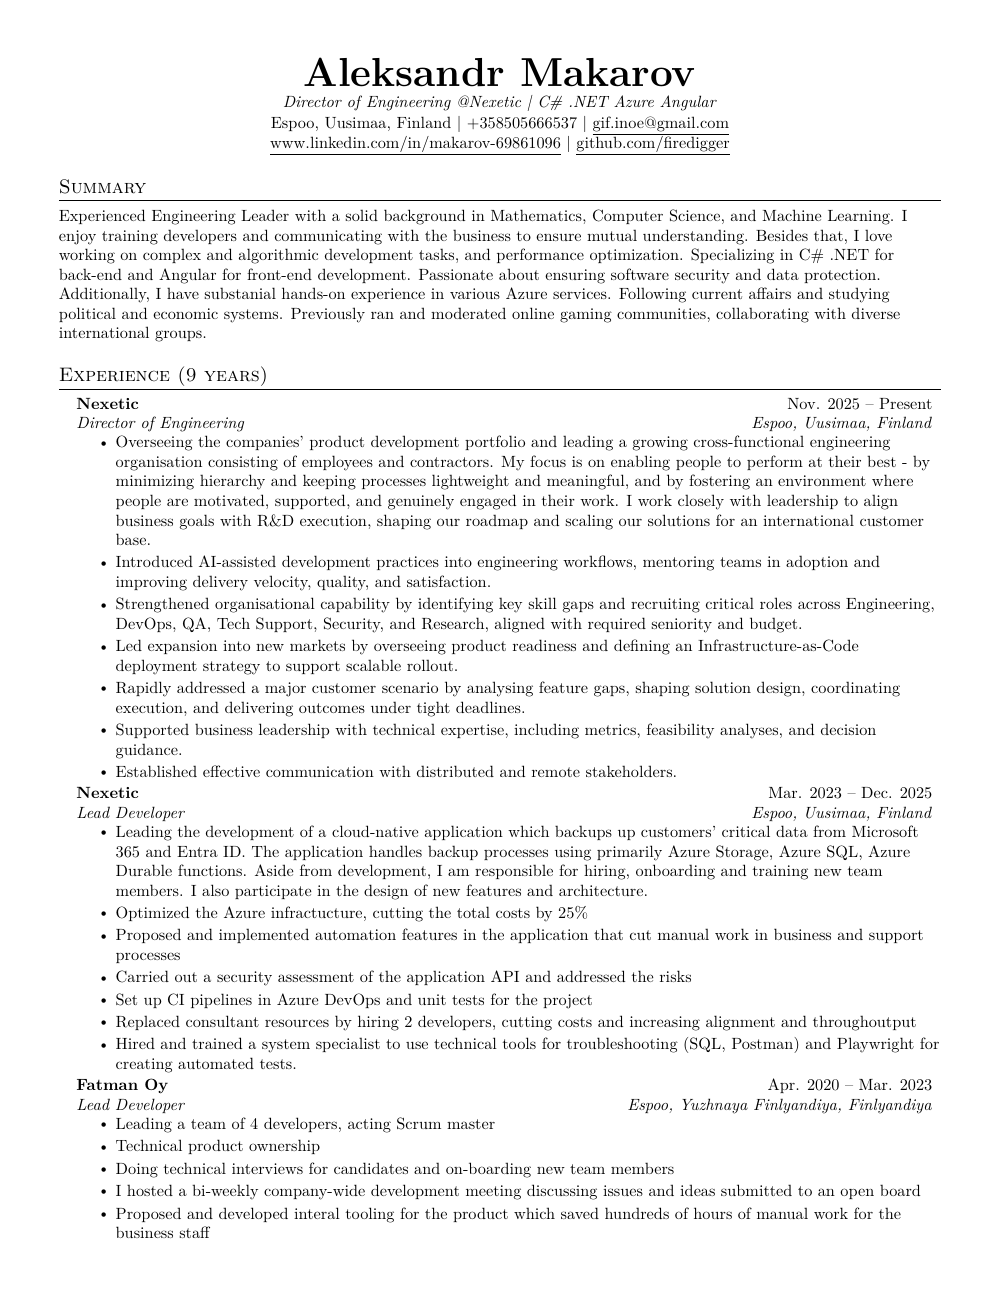
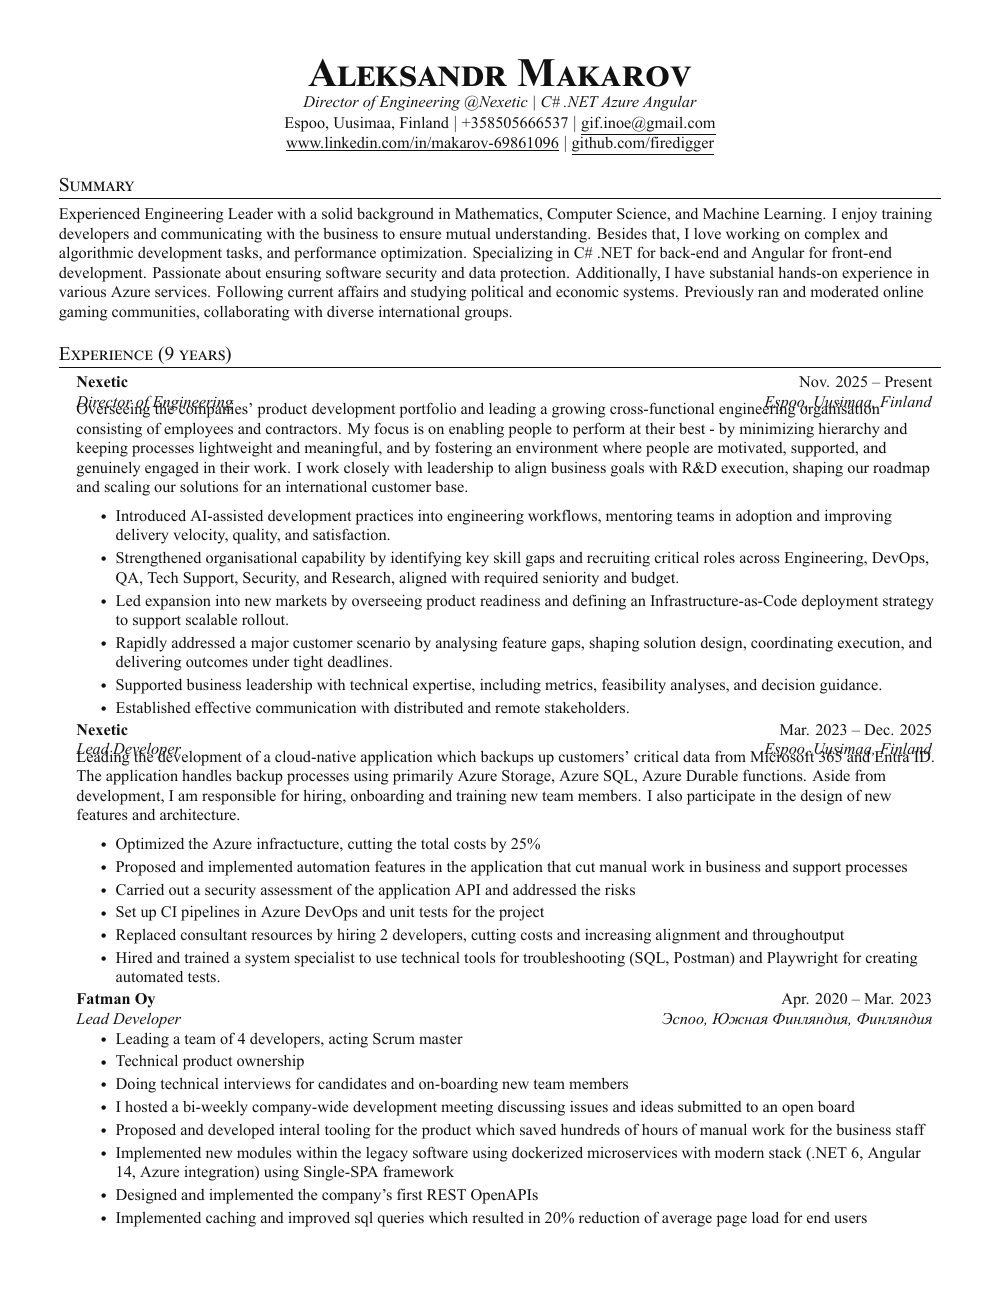
Add dark theme support and update readme

Changed region(s): [[0.062, 0.1236, 0.93, 0.9575], [0.279, 0.0309, 0.744, 0.1236]]

diff --git a/linkedin_resume_parser/latex.py b/linkedin_resume_parser/latex.py
@@ -33,6 +33,7 @@ def render_resume_latex(
     basic_mode: bool = False,
     latinize: bool = False,
     font_name: str | None = None,
+    theme: str = "light",
 ) -> None:
     resume = load_json(resume_path)
     global _LATINIZE
@@ -45,6 +46,7 @@ def render_resume_latex(
         basic_mode=basic_mode,
         unicode_enabled=unicode_enabled,
         font_name=font_name,
+        theme=theme,
     )
     output_path.write_text(rendered, encoding="utf-8")
 
@@ -55,6 +57,7 @@ def apply_template(
     basic_mode: bool = False,
     unicode_enabled: bool = False,
     font_name: str | None = None,
+    theme: str = "light",
 ) -> str:
     basics = resume.get("basics", {})
     name = latex_escape(basics.get("name", ""))
@@ -96,6 +99,8 @@ def apply_template(
         font_setup = "\\usepackage[T1]{fontenc}\n\\usepackage{lmodern}"
         pdftex_setup = "\\input{glyphtounicode}\n\\pdfgentounicode=1"
 
+    theme_colors, theme_setup = build_theme(theme)
+
     replacements = {
         "{{NAME}}": name,
         "{{LABEL_LINE}}": label_line,
@@ -110,6 +115,8 @@ def apply_template(
         "{{LANGUAGES_SECTION}}": languages_section,
         "{{FONT_SETUP}}": font_setup,
         "{{PDFTEX_SETUP}}": pdftex_setup,
+        "{{THEME_COLORS}}": theme_colors,
+        "{{THEME_SETUP}}": theme_setup,
     }
     for token, value in replacements.items():
         template = template.replace(token, value)
@@ -243,10 +250,11 @@ def build_experience_entries(work: list[dict[str, Any]]) -> str:
             f"\n      {{{company}}}{{{dates}}}\n"
             f"      {{{role}}}{{{location}}}"
         )
-        items = []
         summary = (entry.get("summary") or "").strip()
         if summary:
-            items.append(summary)
+            lines.append(f"      \\small{{{latex_escape(summary)}}}")
+            lines.append("      \\vspace{-2pt}")
+        items = []
         for highlight in entry.get("highlights") or []:
             if highlight:
                 items.append(highlight)
@@ -576,6 +584,29 @@ def load_json(path: Path) -> dict[str, Any]:
     return json.loads(path.read_text(encoding="utf-8"))
 
 
+def build_theme(theme: str) -> tuple[str, str]:
+    if theme == "light":
+        colors = (
+            "\\definecolor{ResumeBg}{HTML}{FFFFFF}\n"
+            "\\definecolor{ResumeText}{HTML}{111111}\n"
+            "\\definecolor{ResumeRule}{HTML}{111111}\n"
+            "\\definecolor{ResumeLink}{HTML}{005A9C}\n"
+        )
+    else:
+        colors = (
+            "\\definecolor{ResumeBg}{HTML}{0F1115}\n"
+            "\\definecolor{ResumeText}{HTML}{E6E6E6}\n"
+            "\\definecolor{ResumeRule}{HTML}{9AA4B2}\n"
+            "\\definecolor{ResumeLink}{HTML}{6FB1FF}\n"
+        )
+    setup = (
+        "\\pagecolor{ResumeBg}\n"
+        "\\color{ResumeText}\n"
+        "\\hypersetup{colorlinks=true, urlcolor=ResumeLink, linkcolor=ResumeLink}\n"
+    )
+    return colors, setup
+
+
 def build_arg_parser() -> argparse.ArgumentParser:
     parser = argparse.ArgumentParser(
         description="Render resume.json into a LaTeX template."
@@ -615,6 +646,11 @@ def build_arg_parser() -> argparse.ArgumentParser:
         "--font",
         help="Font name for Unicode output (used with xelatex/lualatex).",
     )
+    parser.add_argument(
+        "--dark",
+        action="store_true",
+        help="Use dark theme output (default is light).",
+    )
     return parser
 
 
@@ -626,6 +662,9 @@ def main() -> int:
         basic_template = Path("template_basic.tex")
         if basic_template.exists():
             template_path = basic_template
+    theme = "dark" if args.dark else "light"
+    if args.basic:
+        theme = "light"
     render_resume_latex(
         args.resume,
         template_path,
@@ -633,6 +672,7 @@ def main() -> int:
         basic_mode=args.basic,
         latinize=args.latinize,
         font_name=args.font,
+        theme=theme,
     )
     return 0
 

diff --git a/template_basic.tex b/template_basic.tex
@@ -11,7 +11,7 @@
 \usepackage[empty]{fullpage}
 \usepackage{titlesec}
 \usepackage{marvosym}
-\usepackage[usenames,dvipsnames]{color}
+\usepackage[usenames,dvipsnames]{xcolor}
 \usepackage{verbatim}
 \usepackage{enumitem}
 \usepackage[hidelinks]{hyperref}
@@ -19,6 +19,7 @@
 \usepackage[english]{babel}
 \usepackage{tabularx}
 {{FONT_SETUP}}
+{{THEME_COLORS}}
 
 
 %----------FONT OPTIONS----------
@@ -55,7 +56,7 @@
 % Sections formatting
 \titleformat{\section}{
   \vspace{-4pt}\scshape\raggedright\large
-}{}{0em}{}[\color{black}\titlerule \vspace{-5pt}]
+}{}{0em}{}[\color{ResumeRule}\titlerule \vspace{-5pt}]
 
 % Ensure that generate pdf is machine readable/ATS parsable
 {{PDFTEX_SETUP}}
@@ -104,6 +105,7 @@
 
 
 \begin{document}
+{{THEME_SETUP}}
 
 \begin{center}
     \textbf{\Huge \scshape {{NAME}}} \\ \vspace{1pt}

diff --git a/template.tex b/template.tex
@@ -12,7 +12,7 @@
 \usepackage[empty]{fullpage}
 \usepackage{titlesec}
 \usepackage{marvosym}
-\usepackage[usenames,dvipsnames]{color}
+\usepackage[usenames,dvipsnames]{xcolor}
 \usepackage{verbatim}
 \usepackage{enumitem}
 \usepackage[hidelinks]{hyperref}
@@ -20,6 +20,7 @@
 \usepackage[english]{babel}
 \usepackage{tabularx}
 {{FONT_SETUP}}
+{{THEME_COLORS}}
 
 
 %----------FONT OPTIONS----------
@@ -56,7 +57,7 @@
 % Sections formatting
 \titleformat{\section}{
   \vspace{-4pt}\scshape\raggedright\large
-}{}{0em}{}[\color{black}\titlerule \vspace{-5pt}]
+}{}{0em}{}[\color{ResumeRule}\titlerule \vspace{-5pt}]
 
 % Ensure that generate pdf is machine readable/ATS parsable
 {{PDFTEX_SETUP}}
@@ -105,6 +106,7 @@
 
 
 \begin{document}
+{{THEME_SETUP}}
 
 
 \begin{center}

diff --git a/README.md b/README.md
@@ -11,18 +11,21 @@ No LLM required. Built via OpenAI Codex.
 - Export JSON Resume to Europass Candidate XML (`europass.xml`) for import into the Europass editor: https://europass.europa.eu/en
 - Render JSON Resume into a customized version of Jake's LaTeX resume template (`resume.tex`) and compile a PDF (`resume.pdf`), including optional sections like summary, certificates, and languages. A base template is also available as `template_basic.tex`.
 
+## Example input and output
+LinkedIn export input (first page) and LaTeX SWE output (first page):
+<p>
+  <img src="assets/readme/linkedin-export.png" width="48%" alt="LinkedIn export PDF" />
+  <img src="assets/readme/swe-output.png" width="48%" alt="LaTeX SWE output PDF" />
+</p>
+
 ## Disclaimer
 LinkedIn PDF parsing is best-effort and may miss or misclassify fields. Always review the generated `resume.json`, `europass.xml`, and `resume.pdf` before using them. If you want to tailor the output to your resume style or data, use AI in this repo to adjust the underlying Python code. Use malformed `resume.json` output and any missing fields to pinpoint what needs fixing.
 
 ## Background
 I keep my LinkedIn profile up to date and wanted a single source of truth that could generate multiple formats: Europass, and a clean PDF using Jake's popular SWE resume template. I then modified Jake's template to include more of LinkedIn profile exports.
 
-## Example output
-LinkedIn export (first page):
-![LinkedIn export PDF](assets/readme/linkedin-export.png)
-
-LaTeX SWE output (first page):
-![LaTeX SWE output PDF](assets/readme/swe-output.png)
+## Why not a web app?
+A hosted web app would need robust PDF parsing and résumé cleanup, which typically means an LLM in the loop. That turns it into a paid service (like sweresume.app 5$ per generation). This repo keeps everything local and scriptable, so if you are an engineer (especially with a Copilot license, personal or work-related), you can clone it and tailor the output quickly. If it helps, all I ask in return is a star on the repo.
 
 ## Template notes
 The LaTeX template in `template.tex` is a modification of Jake's original resume layout. It adds extra sections (summary, certifications, languages) and a compact contact/header layout to fit typical LinkedIn exports.
@@ -47,6 +50,7 @@ Fill out `personal_info.json` first (phone, location, nationality, additional_sk
 Outputs are named from the input PDF (e.g., `LinkedIn_Profile_resume.json`, `LinkedIn_Profile_europass.xml`, `LinkedIn_Profile_SWE.pdf`).
 Add `-Basic` to keep only the original template sections in the LaTeX output.
 Use `-Latinize` to transliterate non-ASCII text and force `pdflatex`, or `-ForcePdfLatex` to skip Unicode engine switching.
+The LaTeX output defaults to a light theme; use `-Dark` for a dark background.
 
 ### Optional arguments (defaults)
 Only the LinkedIn PDF path is required; everything else has a sensible default.
@@ -69,6 +73,7 @@ Only the LinkedIn PDF path is required; everything else has a sensible default.
 | `-Basic` | No | `false` |
 | `-Latinize` | No | `false` |
 | `-ForcePdfLatex` | No | `false` |
+| `-Dark` | No | `false` |
 
 `json-to-latex-pdf.ps1`:
 
@@ -80,6 +85,7 @@ Only the LinkedIn PDF path is required; everything else has a sensible default.
 | `-Basic` | No | `false` |
 | `-Latinize` | No | `false` |
 | `-ForcePdfLatex` | No | `false` |
+| `-Dark` | No | `false` |
 
 Python modules:
 
@@ -114,7 +120,7 @@ The same flag works with the Python renderer; it will auto-select `template_basi
 ```bash
 python -m linkedin_resume_parser.latex -t template.tex -o resume.tex --basic
 ```
-Add `--latinize` to transliterate non-ASCII text and keep the `pdflatex` pipeline. Use `--font "Font Name"` to override the Unicode font.
+Add `--latinize` to transliterate non-ASCII text and keep the `pdflatex` pipeline. Use `--font "Font Name"` to override the Unicode font. Add `--dark` for a dark theme.
 
 ## Files
 - `*_resume.json`: JSON Resume output from the LinkedIn parser.
@@ -129,4 +135,4 @@ Add `--latinize` to transliterate non-ASCII text and keep the `pdflatex` pipelin
 
 ## TODO
 - [ ] Explore LinkedIn alternatives (hh.ru?)
-- [ ] Write a LinkedIn post about the project
+- [ ] Write a LinkedIn post about the project + add to my CV projects

diff --git a/AGENTS.md b/AGENTS.md
@@ -27,6 +27,7 @@ This repo is a CLI pipeline for turning a LinkedIn PDF into JSON Resume, Europas
 - Check `*_resume.json` first; it is the single source of truth for later steps.
 - If LaTeX fails, inspect the `*.pdflatex.log` next to the output PDF.
 - If something looks wrong in the PDF but `resume.json` is correct, the issue is likely in `latex.py` or the template.
+- Keep `--basic` behavior aligned with the original template defaults.
 - You can convert PDF pages to images to inspect what the parser sees, for example:
   - `pdftoppm -f 1 -l 1 -singlefile -png -scale-to-x 1400 -scale-to-y -1 "LinkedIn_Profile.pdf" "page1"`
 
